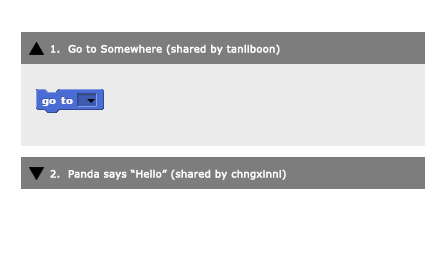
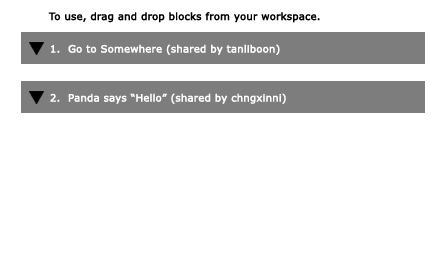
Added invisible button for sharebox, fixed borders.

diff --git a/gui.js b/gui.js
@@ -1615,11 +1615,45 @@ IDE_Morph.shareBoxPrototypeFunctionality = function(myself) {
             this.drawTexture(this.texture);
         }
     };
+    shareBoxBG.hide();
     shareBoxBG.setExtent(new Point(448, 265));
     shareBoxBG.setLeft(this.stage.width()/2 - shareBoxBG.width()/2);
     shareBoxBG.setTop(-2);
-    this.scriptListScreen.add(shareBoxBG);
 
+    var shareBoxCloseScript = new Morph();
+    shareBoxCloseScript.texture = 'images/sharebox_prototype_close.png';
+    shareBoxCloseScript.drawNew = function () {
+        this.image = newCanvas(this.extent());
+        var context = this.image.getContext('2d');
+        var picBgColor = myself.shareBox.color;
+        context.fillStyle = picBgColor.toString();
+        context.fillRect(0, 0, this.width(), this.height());
+        if (this.texture) {
+            this.drawTexture(this.texture);
+        }
+    };
+    shareBoxCloseScript.setExtent(new Point(448, 265));
+    shareBoxCloseScript.setLeft(this.stage.width()/2 - shareBoxCloseScript.width()/2);
+    shareBoxCloseScript.setTop(-2);
+
+    var hiddenButton = new TriggerMorph(
+        this,
+    function () {
+        if (shareBoxBG.isVisible == false) {
+            shareBoxBG.show();
+        } else {
+            shareBoxBG.hide();
+        }
+    },
+    "", 10,'sans serif', null);
+    hiddenButton.setExtent(new Point(20, 20));
+    hiddenButton.setLeft(42);
+    hiddenButton.setTop(130);
+    hiddenButton.setAlphaScaled(0);
+
+    this.scriptListScreen.add(shareBoxCloseScript);
+    this.scriptListScreen.add(shareBoxBG);
+    this.scriptListScreen.add(hiddenButton);
     this.scriptListScreen.hide();
 }
 
